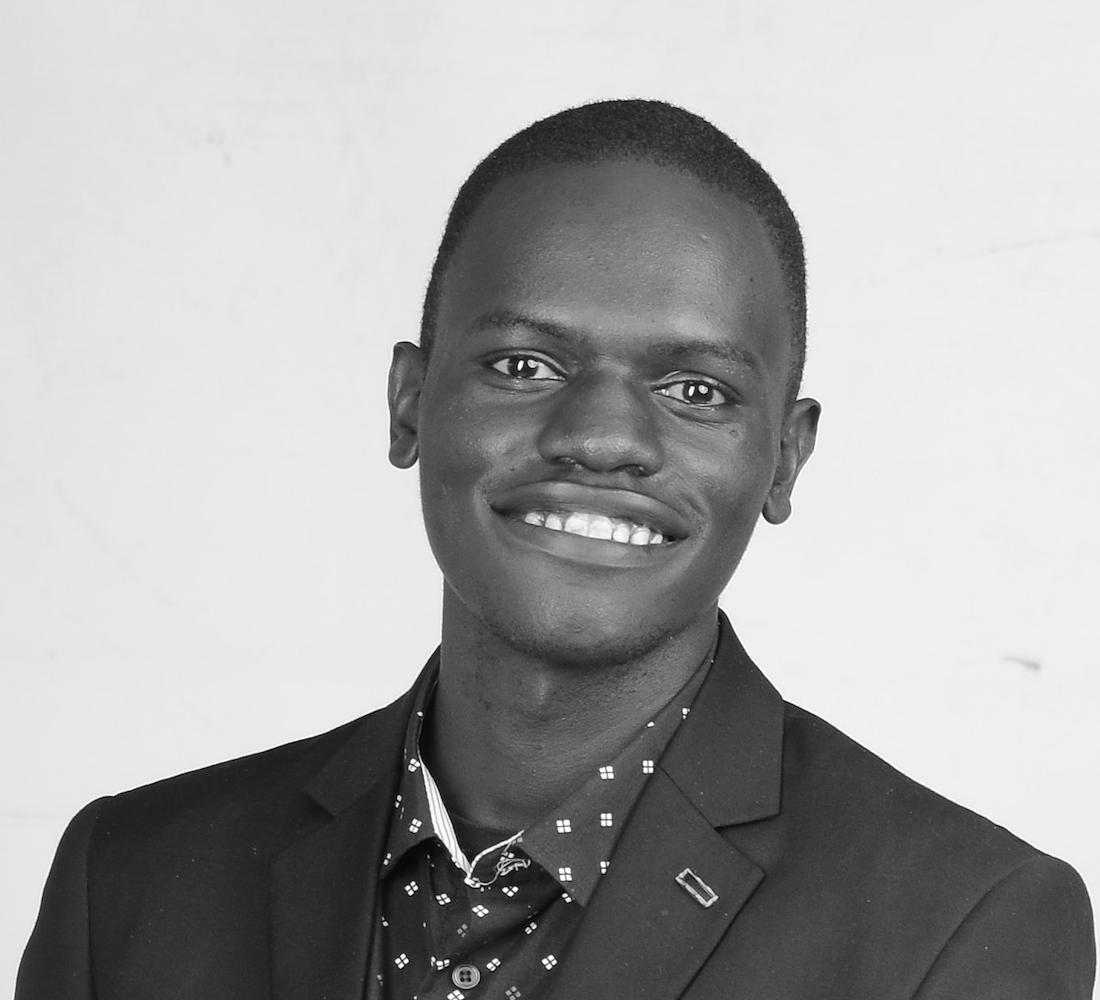
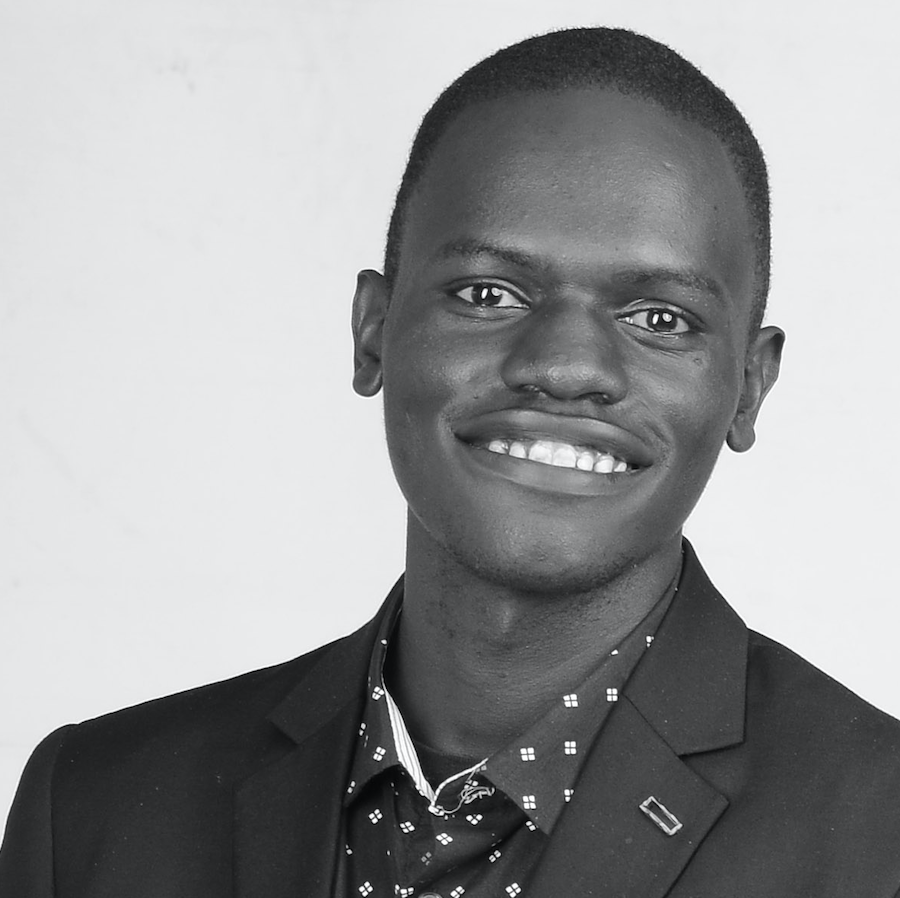
Website Updates.

diff --git a/index.html b/index.html
@@ -41,7 +41,7 @@
                 <div class="d-flex justify-content-center">
                     <div class="text-center">
                         <br></br>
-                        <img class="rounded-pill circularimage" src="assets/img/profile.png" alt="madelinezhangheadshot.jpg" height="200">
+                        <img class="rounded-circle circularimage" src="assets/img/profile.png" height="200">
                         <br><br><br>
                         <h1 class="mx-auto my-0 text-uppercase">Emmanuel Olang'</h1>
                         <h2 class="text-white-50 mx-auto mt-2 mb-5">Data Scientist | Photogrpher | Learner</h2>
@@ -66,9 +66,8 @@
                             <br><br><br><br><br><br><br>
                         </div>
                     </div>
-                <img class="img-fluid" src="assets/img/ipad.png" alt="..." />
             </div>
-        </section>
+        </section> <br><br><br>
 
         <!-- Work-->
         <section class="work-section bg-light" id="xp">
@@ -176,8 +175,8 @@
                         <div class="bg-black text-center h-100 project">
                             <div class="d-flex h-100">
                                 <div class="project-text w-100 my-auto text-center text-lg-left">
-                                    <h4 class="text-white">Misty</h4>
-                                    <p class="mb-0 text-white-50">An example of where you can put an image of a project, or anything else, along with a description.</p>
+                                    <h4 class="text-white">PROJECT 1</h4>
+                                    <p class="mb-0 text-white-50">TBD.</p>
                                     <hr class="d-none d-lg-block mb-0 ms-0" />
                                 </div>
                             </div>
@@ -191,8 +190,8 @@
                         <div class="bg-black text-center h-100 project">
                             <div class="d-flex h-100">
                                 <div class="project-text w-100 my-auto text-center text-lg-right">
-                                    <h4 class="text-white">Mountains</h4>
-                                    <p class="mb-0 text-white-50">Another example of a project with its respective description. These sections work well responsively as well, try this theme on a small screen!</p>
+                                    <h4 class="text-white">PROJECT 1</h4>
+                                    <p class="mb-0 text-white-50">TBD</p>
                                     <hr class="d-none d-lg-block mb-0 me-0" />
                                 </div>
                             </div>
@@ -203,46 +202,10 @@
         </section>
         
         <!-- Signup-->
-        <section class="signup-section" id="signup">
+        <section class="" id="signup">
             <div class="container px-4 px-lg-5">
                 <div class="row gx-4 gx-lg-5">
-                    <div class="col-md-10 col-lg-8 mx-auto text-center">
-                        <i class="far fa-paper-plane fa-2x mb-2 text-white"></i>
-                        <h2 class="text-white mb-5">Subscribe to receive updates!</h2>
-                        <!-- * * * * * * * * * * * * * * *-->
-                        <!-- * * SB Forms Contact Form * *-->
-                        <!-- * * * * * * * * * * * * * * *-->
-                        <!-- This form is pre-integrated with SB Forms.-->
-                        <!-- To make this form functional, sign up at-->
-                        <!-- https://startbootstrap.com/solution/contact-forms-->
-                        <!-- to get an API token!-->
-                        <form class="form-signup" id="contactForm" data-sb-form-api-token="API_TOKEN">
-                            <!-- Email address input-->
-                            <div class="row input-group-newsletter">
-                                <div class="col"><input class="form-control" id="emailAddress" type="email" placeholder="Enter email address..." aria-label="Enter email address..." data-sb-validations="required,email" /></div>
-                                <div class="col-auto"><button class="btn btn-primary disabled" id="submitButton" type="submit">Notify Me!</button></div>
-                            </div>
-                            <div class="invalid-feedback mt-2" data-sb-feedback="emailAddress:required">An email is required.</div>
-                            <div class="invalid-feedback mt-2" data-sb-feedback="emailAddress:email">Email is not valid.</div>
-                            <!-- Submit success message-->
-                            <!---->
-                            <!-- This is what your users will see when the form-->
-                            <!-- has successfully submitted-->
-                            <div class="d-none" id="submitSuccessMessage">
-                                <div class="text-center mb-3 mt-2 text-white">
-                                    <div class="fw-bolder">Form submission successful!</div>
-                                    To activate this form, sign up at
-                                    <br />
-                                    <a href="https://startbootstrap.com/solution/contact-forms">https://startbootstrap.com/solution/contact-forms</a>
-                                </div>
-                            </div>
-                            <!-- Submit error message-->
-                            <!---->
-                            <!-- This is what your users will see when there is-->
-                            <!-- an error submitting the form-->
-                            <div class="d-none" id="submitErrorMessage"><div class="text-center text-danger mb-3 mt-2">Error sending message!</div></div>
-                        </form>
-                    </div>
+                    
                 </div>
             </div>
         </section>

diff --git a/css/styles.css b/css/styles.css
@@ -11136,7 +11136,7 @@ body {
   height: auto;
   min-height: 35rem;
   padding: 15rem 0;
-  background: linear-gradient(to bottom, rgba(0, 0, 0, 0.3) 0%, rgba(0, 0, 0, 0.7) 75%, #000 100%), url("../assets/img/bg-masthead.jpg");
+  background: linear-gradient(to bottom, rgba(0, 0, 0, 0.3) 0%, rgba(0, 0, 0, 0.7) 75%, #000 100%), url("../assets/img/img1_unsplash.jpg");
   background-position: center;
   background-repeat: no-repeat;
   background-attachment: scroll;
